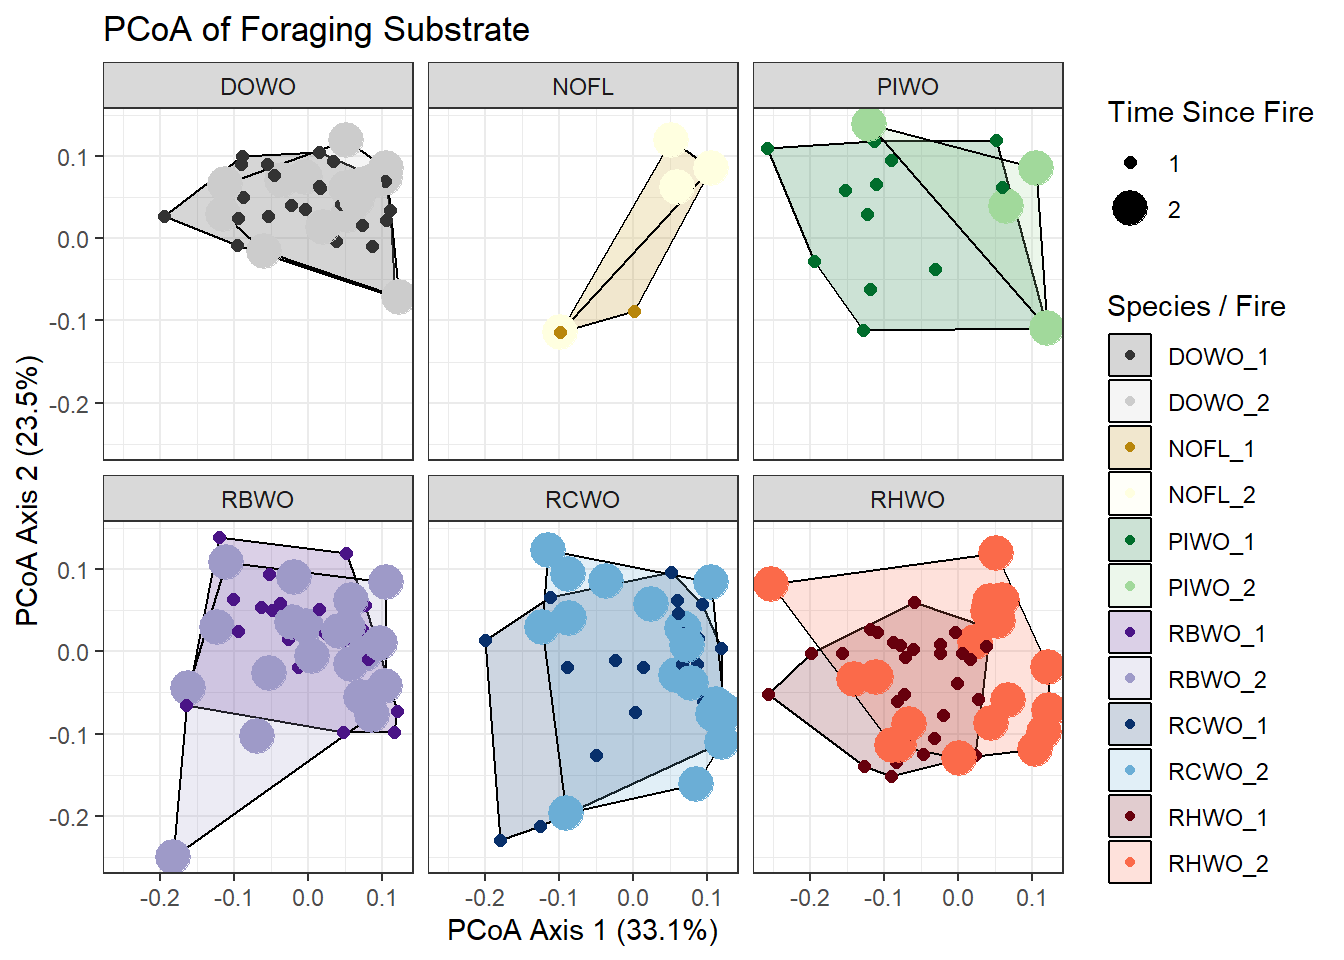
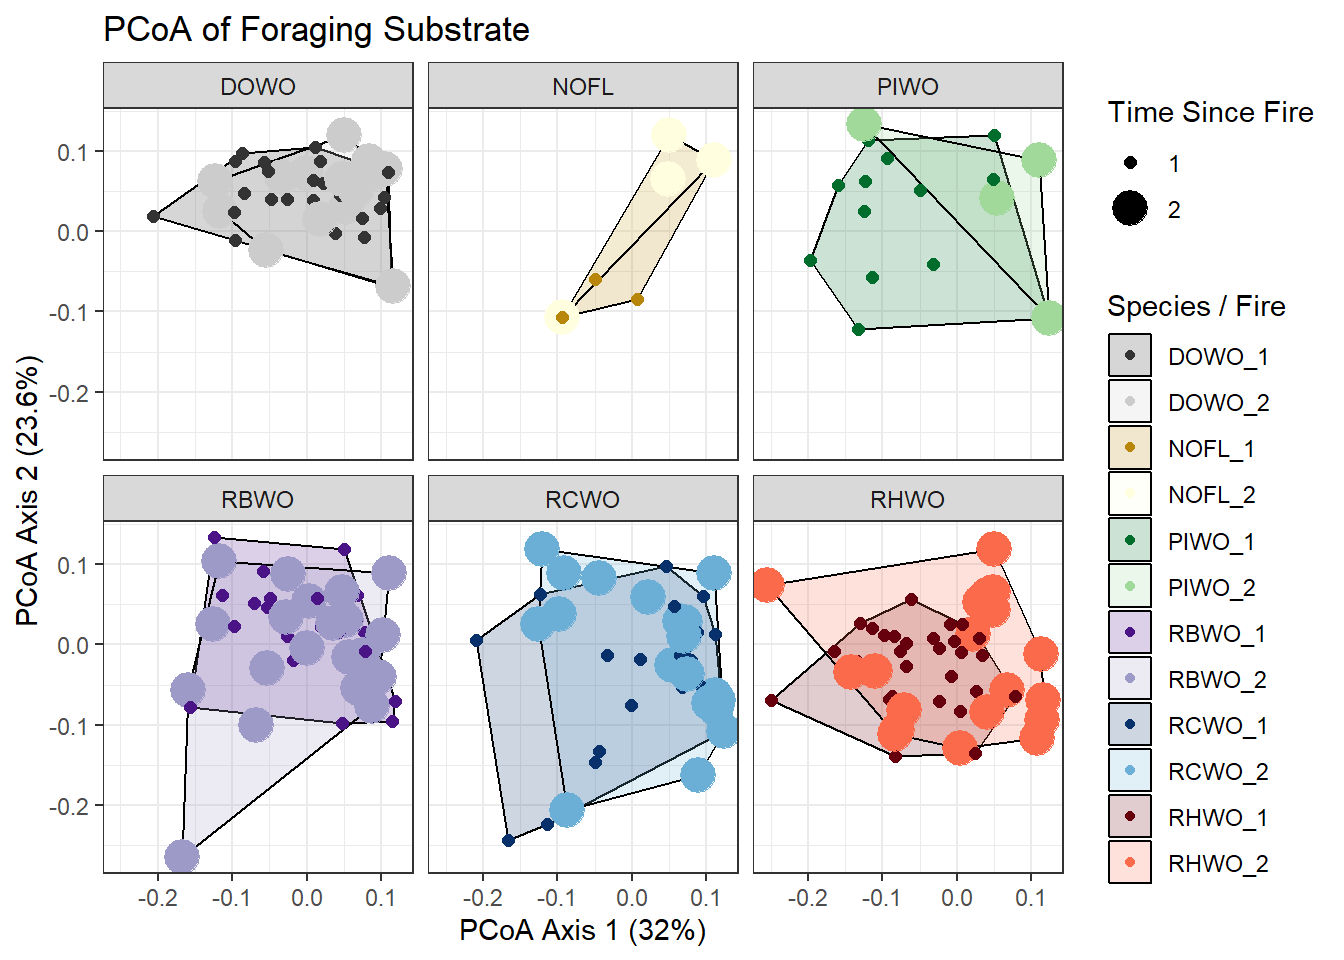
Data push for woodpecker obs

diff --git a/docs/woodpecker_obs.html b/docs/woodpecker_obs.html
@@ -288,7 +288,7 @@ Table: June observations by species and plot
 <h1>July Observations</h1>
 <div class="cell">
 <div class="cell-output cell-output-stdout">
-<pre><code>Plot(s) with no observations include:  1</code></pre>
+<pre><code>Each plot has at least 1 observation of a woodpecker this month.</code></pre>
 </div>
 </div>
 <div class="cell">
@@ -299,12 +299,13 @@ Table: July observations by species and plot
 
 |X8_Species |  3|  8|  9| 14| 17| 19| 22| 24|  5|  1|  2|  4|  6|  7| 12| 13| 15| 20| 23| 30| 32| 10| 11| 25| 31| 16| 26| 28| 29| 21| 27| 18|
 |:----------|--:|--:|--:|--:|--:|--:|--:|--:|--:|--:|--:|--:|--:|--:|--:|--:|--:|--:|--:|--:|--:|--:|--:|--:|--:|--:|--:|--:|--:|--:|--:|--:|
-|DOWO       |  0|  1|  0|  0|  0|  0|  0|  2|  0|  0|  1|  0|  0|  0|  1|  0|  0|  2|  2|  1|  0|  0|  0|  0|  1|  0|  3|  0|  2|  0|  4|  1|
+|DOWO       |  0|  2|  0|  0|  0|  0|  1|  2|  0|  1|  1|  0|  0|  0|  1|  0|  0|  2|  2|  1|  0|  0|  1|  0|  1|  0|  3|  0|  2|  0|  4|  1|
 |HAWO       |  0|  0|  0|  0|  0|  0|  0|  0|  0|  0|  0|  0|  0|  0|  0|  0|  0|  0|  0|  0|  0|  0|  0|  0|  0|  0|  0|  0|  4|  0|  0|  0|
-|PIWO       |  0|  0|  0|  0|  0|  1|  0|  0|  0|  0|  0|  0|  0|  0|  1|  0|  0|  0|  0|  0|  0|  0|  1|  0|  0|  0|  1|  0|  0|  2|  0|  0|
-|RBWO       |  2|  1|  0|  1|  4|  0|  1|  1|  2|  0|  0|  0|  0|  0|  1|  0|  1|  1|  1|  2|  3|  0|  0|  2|  0|  0|  2|  1|  1|  1|  0|  1|
-|RCWO       |  2|  1|  5|  1|  2|  0|  0|  4|  2|  0|  2|  0|  1|  1|  2|  4|  1|  2|  0|  2|  3|  0|  1|  3|  2|  4|  3|  3|  3|  1|  2|  0|
-|RHWO       |  1|  0|  0|  1|  2|  2|  0|  2|  4|  0|  0|  2|  4|  1|  1|  0|  4|  1|  0|  3|  6|  2|  0|  6|  9|  2|  3|  3|  1|  2|  1|  3|</code></pre>
+|NOFL       |  0|  0|  0|  0|  0|  0|  0|  0|  0|  1|  1|  0|  0|  0|  0|  0|  0|  0|  0|  0|  0|  0|  0|  0|  0|  0|  0|  0|  0|  0|  0|  0|
+|PIWO       |  0|  0|  0|  0|  0|  1|  0|  0|  0|  1|  0|  0|  0|  0|  1|  0|  0|  0|  0|  0|  0|  0|  2|  0|  0|  0|  1|  0|  0|  2|  0|  0|
+|RBWO       |  2|  2|  0|  1|  4|  0|  1|  1|  2|  1|  0|  0|  0|  0|  1|  0|  1|  1|  1|  2|  4|  1|  0|  2|  0|  0|  2|  1|  1|  1|  0|  1|
+|RCWO       |  2|  1|  5|  1|  2|  0|  1|  4|  2|  2|  5|  0|  2|  1|  2|  4|  1|  5|  0|  2|  3|  1|  2|  3|  2|  4|  3|  3|  3|  1|  2|  0|
+|RHWO       |  1|  0|  0|  1|  4|  2|  1|  2|  4|  2|  0|  3|  6|  3|  1|  0|  4|  1|  0|  3|  6|  4|  0|  6|  9|  4|  3|  3|  1|  3|  1|  3|</code></pre>
 </div>
 </div>
 </section>
@@ -364,7 +365,7 @@ Table: August observations by species and plot
 </div>
 </div>
 </div>
-<p>This page was updated: July 23, 2026</p>
+<p>This page was updated: July 29, 2026</p>
 
 
 </section>
